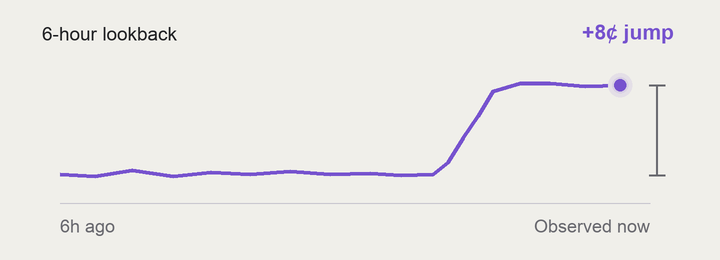
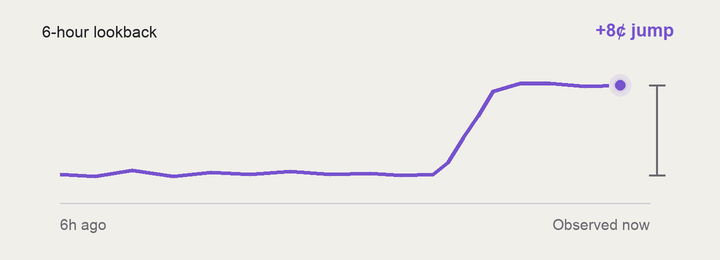
builder: smaller strategy illustrations that always play
Type and marks inside the five example animations are about a fifth smaller, the figure renders narrower on the page, and the pause button is gone: the animation plays whenever the card is on screen. The reduced-motion preference still shows the still poster.

diff --git a/site/terms.html b/site/terms.html
@@ -1,1 +1,1 @@
-<!doctype html><html lang="en"><head><meta charset="utf-8"><meta name="viewport" content="width=device-width,initial-scale=1"><title>Terms of use · OddsRail</title><meta name="robots" content="noindex"><link rel="icon" href="/favicon.svg"><link rel="stylesheet" href="/product.css?v=20260912-3"><link rel="stylesheet" href="/builder.css"><script src="/wallet.js?v=20260916-2" defer></script><script src="/shell.js?v=20260916-2" defer></script></head><body class="product" data-page="terms"><div data-shell></div><main id="main-content" class="app-main prose"><p class="eyebrow">USING ODDSRAIL</p><h1>Terms of use</h1><div class="notice">Hosted live trading and prize competitions are not currently available.</div><h2>What the service provides</h2><p>OddsRail offers market information and strategy configuration. A draft is not an active trading agent. The website has no paper-trading controls. Self-hosted live execution is a separate installation that the operator configures and controls.</p><h2>Trading and simulations</h2><p>Prediction-market trading can lose your entire trading allocation. Prices and market data may be delayed or unavailable. Simulated results omit fees, queue priority and market impact, and do not establish likely live performance. Entry limits and sampled stop rules do not guarantee a maximum loss or exit price.</p><h2>Permissions and accounts</h2><p>Connecting a wallet and signing the OddsRail sign-in message verifies control of that signing address. This creates an expiring sign-in session and does not grant trading permission. Do not enter an owner wallet private key or a consumer AI account password into the website. A future hosted trading service will require a separate description of permissions, signing-key handling, revocation and availability before activation.</p><h2>Responsible use</h2><p>Follow the applicable venue rules and <a href="https://docs.polymarket.com/api-reference/geoblock" target="_blank" rel="noopener noreferrer">eligibility restrictions</a>. Being able to view OddsRail does not establish eligibility to trade. Do not use the service for deceptive activity, artificial trading volume, unauthorized account access or attempts to bypass service limits. OddsRail's builder status does not mean that Polymarket guarantees its strategies, security, or results.</p><h2>AI and competitions</h2><p>Running the built-in strategy rules does not require ongoing model calls. Hosted AI research is not enabled in this build. Any future included allowance must show when usage becomes unavailable. Competition dates, eligibility, scoring, prizes and sponsors will be published separately before entry opens.</p><h2>Privacy and support</h2><p>See the <a href="/privacy">privacy information</a> for the existing hosted service. New strategy drafts are saved in this browser. Use the <a href="https://github.com/hmesutozsoy/oddsrail/issues">support tracker</a> for product issues. Do not put credentials or private account details in public issues.</p></main></body></html>
+<!doctype html><html lang="en"><head><meta charset="utf-8"><meta name="viewport" content="width=device-width,initial-scale=1"><title>Terms of use · OddsRail</title><meta name="robots" content="noindex"><link rel="icon" href="/favicon.svg"><link rel="stylesheet" href="/product.css?v=20260912-3"><link rel="stylesheet" href="/builder.css"><script src="/wallet.js?v=20260916-3" defer></script><script src="/shell.js?v=20260916-3" defer></script></head><body class="product" data-page="terms"><div data-shell></div><main id="main-content" class="app-main prose"><p class="eyebrow">USING ODDSRAIL</p><h1>Terms of use</h1><div class="notice">Hosted live trading and prize competitions are not currently available.</div><h2>What the service provides</h2><p>OddsRail offers market information and strategy configuration. A draft is not an active trading agent. The website has no paper-trading controls. Self-hosted live execution is a separate installation that the operator configures and controls.</p><h2>Trading and simulations</h2><p>Prediction-market trading can lose your entire trading allocation. Prices and market data may be delayed or unavailable. Simulated results omit fees, queue priority and market impact, and do not establish likely live performance. Entry limits and sampled stop rules do not guarantee a maximum loss or exit price.</p><h2>Permissions and accounts</h2><p>Connecting a wallet and signing the OddsRail sign-in message verifies control of that signing address. This creates an expiring sign-in session and does not grant trading permission. Do not enter an owner wallet private key or a consumer AI account password into the website. A future hosted trading service will require a separate description of permissions, signing-key handling, revocation and availability before activation.</p><h2>Responsible use</h2><p>Follow the applicable venue rules and <a href="https://docs.polymarket.com/api-reference/geoblock" target="_blank" rel="noopener noreferrer">eligibility restrictions</a>. Being able to view OddsRail does not establish eligibility to trade. Do not use the service for deceptive activity, artificial trading volume, unauthorized account access or attempts to bypass service limits. OddsRail's builder status does not mean that Polymarket guarantees its strategies, security, or results.</p><h2>AI and competitions</h2><p>Running the built-in strategy rules does not require ongoing model calls. Hosted AI research is not enabled in this build. Any future included allowance must show when usage becomes unavailable. Competition dates, eligibility, scoring, prizes and sponsors will be published separately before entry opens.</p><h2>Privacy and support</h2><p>See the <a href="/privacy">privacy information</a> for the existing hosted service. New strategy drafts are saved in this browser. Use the <a href="https://github.com/hmesutozsoy/oddsrail/issues">support tracker</a> for product issues. Do not put credentials or private account details in public issues.</p></main></body></html>

diff --git a/site/strategy-visuals.js b/site/strategy-visuals.js
@@ -12,7 +12,7 @@
   let scheduled = false;
   const element = (tag, cls, text) => { const node = document.createElement(tag); if (cls) node.className = cls; if (text) node.textContent = text; return node; };
   const theme = () => document.documentElement.dataset.theme === 'light' ? 'light' : 'dark';
-  function path(record, extension) { return '/assets/strategy-gifs/' + record.id + '-' + theme() + '.' + extension + '?v=20260913-4'; }
+  function path(record, extension) { return '/assets/strategy-gifs/' + record.id + '-' + theme() + '.' + extension + '?v=20260916-3'; }
   function wantsMotion(record) { return !record.paused && (!preference.matches || record.motionOverride); }
   function paint(record) {
     const rect = record.figure.getBoundingClientRect();
@@ -23,8 +23,6 @@
       const source = path(record, play ? 'gif' : 'png');
       if (record.image.getAttribute('src') !== source && !record.posterFailed) record.image.setAttribute('src', source);
     }
-    record.button.textContent = wantsMotion(record) ? 'Pause' : 'Play';
-    record.button.setAttribute('aria-label', (wantsMotion(record) ? 'Pause ' : 'Play ') + examples[record.id][0] + ' example animation');
   }
   function update() {
     scheduled = false;
@@ -34,24 +32,16 @@
   function attach(container, id) {
     if (!examples[id]) return;
     const figure = element('figure','strategy-visual');
-    const toolbar = element('div','strategy-visual-toolbar');
-    const button = element('button','strategy-animation-control','Pause'); button.type = 'button'; toolbar.append(button);
     const media = element('div','strategy-visual-media');
     const image = element('img'); image.width = 720; image.height = 260; image.alt = examples[id][1]; image.decoding = 'async'; image.hidden = true;
     media.append(image);
     const caption = element('figcaption','','Illustrative example, independent of your settings below.');
-    figure.append(toolbar,media,caption);container.append(figure);
-    const record = {id,figure,image,button,caption,paused:false,motionOverride:false,failed:false,posterFailed:false}; records.push(record);
+    figure.append(media,caption);container.append(figure);
+    const record = {id,figure,image,caption,paused:false,motionOverride:false,failed:false,posterFailed:false}; records.push(record);
     image.addEventListener('load', () => { image.hidden = false; });
     image.addEventListener('error', () => {
       if (record.failed) { record.posterFailed = true; image.hidden = true; caption.textContent = 'This example could not be loaded.'; }
       else { record.failed = true; record.paused = true; image.src = path(record,'png'); }
-      button.disabled = true;
-    });
-    button.addEventListener('click', () => {
-      if (wantsMotion(record)) { record.paused = true; record.motionOverride = false; }
-      else { record.paused = false; record.motionOverride = preference.matches; }
-      paint(record);
     });
     observer?.observe(figure); schedule();
   }

diff --git a/site/agents.html b/site/agents.html
@@ -1,1 +1,1 @@
-<!doctype html><html lang="en"><head><meta charset="utf-8"><meta name="viewport" content="width=device-width,initial-scale=1"><title>My agents · OddsRail</title><meta name="description" content="Your OddsRail strategy drafts and agent configurations."><link rel="canonical" href="https://oddsrail.app/agents"><link rel="icon" href="/favicon.svg"><link rel="stylesheet" href="/product.css?v=20260912-3"><link rel="stylesheet" href="/builder.css?v=20260912-2"><script src="/wallet.js?v=20260916-2" defer></script><script src="/shell.js?v=20260916-2" defer></script><script src="/agents.js?v=20260912-2" defer></script></head><body class="product" data-page="agents"><div data-shell></div><main id="main-content" class="app-main"><div class="page-heading"><div><p class="eyebrow">YOUR CONTROL ROOM</p><h1>My agents</h1><p class="muted">Shape an idea, keep a draft, and pick up where you left off.</p></div><a class="pill" href="/build">Create agent <span aria-hidden="true">↗</span></a></div><div id="drafts" class="draft-grid"></div><section class="panel empty-agents" id="no-drafts" hidden><div class="agent-orbit" aria-hidden="true"><span>↗</span></div><h2>Your next idea starts here.</h2><p class="muted">Create a strategy and set its boundaries. Drafts stay in this browser.</p><a class="pill" href="/build">Create your first agent</a></section><p class="muted small">Drafts are not active agents. Hosted live authorization is not available yet.</p></main></body></html>
+<!doctype html><html lang="en"><head><meta charset="utf-8"><meta name="viewport" content="width=device-width,initial-scale=1"><title>My agents · OddsRail</title><meta name="description" content="Your OddsRail strategy drafts and agent configurations."><link rel="canonical" href="https://oddsrail.app/agents"><link rel="icon" href="/favicon.svg"><link rel="stylesheet" href="/product.css?v=20260912-3"><link rel="stylesheet" href="/builder.css?v=20260912-2"><script src="/wallet.js?v=20260916-3" defer></script><script src="/shell.js?v=20260916-3" defer></script><script src="/agents.js?v=20260912-2" defer></script></head><body class="product" data-page="agents"><div data-shell></div><main id="main-content" class="app-main"><div class="page-heading"><div><p class="eyebrow">YOUR CONTROL ROOM</p><h1>My agents</h1><p class="muted">Shape an idea, keep a draft, and pick up where you left off.</p></div><a class="pill" href="/build">Create agent <span aria-hidden="true">↗</span></a></div><div id="drafts" class="draft-grid"></div><section class="panel empty-agents" id="no-drafts" hidden><div class="agent-orbit" aria-hidden="true"><span>↗</span></div><h2>Your next idea starts here.</h2><p class="muted">Create a strategy and set its boundaries. Drafts stay in this browser.</p><a class="pill" href="/build">Create your first agent</a></section><p class="muted small">Drafts are not active agents. Hosted live authorization is not available yet.</p></main></body></html>

diff --git a/site/build.html b/site/build.html
@@ -1,5 +1,5 @@
 <!doctype html>
-<html lang="en"><head><meta charset="utf-8"><meta name="viewport" content="width=device-width,initial-scale=1"><title>Create an agent · OddsRail</title><meta name="description" content="Choose a strategy, select Polymarket markets, and review your agent's trading limits."><link rel="canonical" href="https://oddsrail.app/build"><link rel="icon" href="/favicon.svg"><link rel="stylesheet" href="/product.css?v=20260912-3"><link rel="stylesheet" href="/builder.css?v=20260916-2"><script src="/wallet.js?v=20260916-2" defer></script><script src="/shell.js?v=20260916-2" defer></script><script src="/strategy-visuals.js?v=20260913-4" defer></script><script src="/trading-connection.js?v=20260916-2" defer></script><script src="/activation.js?v=20260913-6" defer></script><script src="/build.js?v=20260916-2" defer></script></head>
+<html lang="en"><head><meta charset="utf-8"><meta name="viewport" content="width=device-width,initial-scale=1"><title>Create an agent · OddsRail</title><meta name="description" content="Choose a strategy, select Polymarket markets, and review your agent's trading limits."><link rel="canonical" href="https://oddsrail.app/build"><link rel="icon" href="/favicon.svg"><link rel="stylesheet" href="/product.css?v=20260912-3"><link rel="stylesheet" href="/builder.css?v=20260916-3"><script src="/wallet.js?v=20260916-3" defer></script><script src="/shell.js?v=20260916-3" defer></script><script src="/strategy-visuals.js?v=20260916-3" defer></script><script src="/trading-connection.js?v=20260916-3" defer></script><script src="/activation.js?v=20260913-6" defer></script><script src="/build.js?v=20260916-3" defer></script></head>
 <body class="product" data-page="build"><div data-shell></div><main id="main-content" class="app-main builder-main">
 <div class="page-heading"><div><p class="eyebrow">YOUR EDGE. YOUR RULES.</p><h1>Make the strategy yours.</h1><p class="muted">Choose how it trades. Set its limits. Review before authorizing.</p></div></div>
 

diff --git a/site/arena.html b/site/arena.html
@@ -6,7 +6,7 @@
 <meta name="description" content="An agent trading competition is coming to OddsRail. Build your agent and explore the proposed format.">
 <link rel="canonical" href="https://oddsrail.app/arena"><link rel="icon" href="/favicon.svg" type="image/svg+xml">
 <meta property="og:type" content="website"><meta property="og:site_name" content="OddsRail"><meta property="og:title" content="Competition · OddsRail"><meta property="og:description" content="Build an agent. Get ready to compete. Coming soon to OddsRail."><meta property="og:url" content="https://oddsrail.app/arena">
-<link rel="stylesheet" href="/product.css?v=20260912-3"><link rel="stylesheet" href="/competition.css?v=20260912"><script src="/wallet.js?v=20260916-2" defer></script><script src="/shell.js?v=20260916-2" defer></script>
+<link rel="stylesheet" href="/product.css?v=20260912-3"><link rel="stylesheet" href="/competition.css?v=20260912"><script src="/wallet.js?v=20260916-3" defer></script><script src="/shell.js?v=20260916-3" defer></script>
 </head>
 <body class="product" data-page="arena">
 <div data-shell></div>

diff --git a/site/index.html b/site/index.html
@@ -5,7 +5,7 @@
 <title>Markets · OddsRail</title><meta name="description" content="Explore Polymarket markets and create your own trading agent with OddsRail.">
 <link rel="canonical" href="https://oddsrail.app/"><link rel="icon" href="/favicon.svg" type="image/svg+xml">
 <meta property="og:title" content="Markets · OddsRail"><meta property="og:description" content="Find a market. Create your agent."><meta property="og:url" content="https://oddsrail.app/">
-<link rel="stylesheet" href="/product.css?v=20260912-3"><script src="/wallet.js?v=20260916-2" defer></script><script src="/shell.js?v=20260916-2" defer></script><script src="/markets.js?v=20260912" defer></script>
+<link rel="stylesheet" href="/product.css?v=20260912-3"><script src="/wallet.js?v=20260916-3" defer></script><script src="/shell.js?v=20260916-3" defer></script><script src="/markets.js?v=20260912" defer></script>
 </head>
 <body class="product" data-page="markets">
 <div data-shell></div>

diff --git a/site/builder.css b/site/builder.css
@@ -24,7 +24,7 @@
 .strategy-animation-control:hover{border-color:var(--accent)}
 .strategy-visual{margin:0 0 22px;border:1px solid var(--line);border-radius:14px;background:var(--bg);overflow:hidden}
 .strategy-visual-toolbar{display:flex;align-items:center;justify-content:flex-end;gap:12px;padding:11px 14px 0}
-.strategy-visual-media{aspect-ratio:720/260;width:100%;display:grid;place-items:center}
+.strategy-visual-media{aspect-ratio:720/260;width:100%;max-width:620px;margin:0 auto;padding-top:10px;display:grid;place-items:center}
 .strategy-visual-media img{display:block;width:100%;height:auto;aspect-ratio:720/260}
 .strategy-visual figcaption{font-size:11px;color:var(--muted);line-height:1.5;padding:3px 14px 13px}
 @media(max-width:480px){.strategy-visual-toolbar{padding:10px 10px 0}.strategy-visual figcaption{padding:4px 10px 12px;font-size:10px}}

diff --git a/site/portfolio.html b/site/portfolio.html
@@ -9,10 +9,10 @@
 <link rel="canonical" href="https://oddsrail.app/portfolio">
 <link rel="icon" href="/favicon.svg">
 <link rel="stylesheet" href="/product.css?v=20260912-3">
-<link rel="stylesheet" href="/portfolio.css?v=20260916-2">
-<script src="/wallet.js?v=20260916-2" defer></script>
-<script src="/shell.js?v=20260916-2" defer></script>
-<script src="/portfolio.js?v=20260916-2" defer></script>
+<link rel="stylesheet" href="/portfolio.css?v=20260916-3">
+<script src="/wallet.js?v=20260916-3" defer></script>
+<script src="/shell.js?v=20260916-3" defer></script>
+<script src="/portfolio.js?v=20260916-3" defer></script>
 </head>
 <body class="product" data-page="portfolio">
 <div data-shell></div>

diff --git a/site/advanced.html b/site/advanced.html
@@ -10,7 +10,7 @@
 <link rel="stylesheet" href="/product.css?v=20260912-3">
 <link rel="stylesheet" href="/builder.css?v=20260912-2">
 <link rel="stylesheet" href="/external.css?v=20260912-2">
-<script src="/wallet.js?v=20260916-2" defer></script><script src="/shell.js?v=20260916-2" defer></script>
+<script src="/wallet.js?v=20260916-3" defer></script><script src="/shell.js?v=20260916-3" defer></script>
 <script src="/advanced.js?v=20260912-2" defer></script>
 </head>
 <body class="product" data-page="build">

diff --git a/tools/generate_strategy_gifs.py b/tools/generate_strategy_gifs.py
@@ -17,7 +17,7 @@ from pathlib import Path
 from PIL import Image, ImageDraw, ImageFont
 
 WIDTH, HEIGHT, SCALE = 720, 260, 2
-TEXT_SCALE, MIN_TEXT_SIZE = 0.64, 18
+TEXT_SCALE, MIN_TEXT_SIZE = 0.54, 15
 FRAMES = 60
 DURATIONS = [70, 70, 60] * 20  # GIF timing uses 10 ms units: exactly four seconds.
 ROOT = Path(__file__).resolve().parents[1]
@@ -98,7 +98,7 @@ class Canvas:
         self.draw.rounded_rectangle(tuple(round(v * SCALE) for v in box),
                                     radius=round(radius * SCALE), fill=self.color(color, strength))
 
-    def dot(self, xy, phase=0, strength=1, radius=6):
+    def dot(self, xy, phase=0, strength=1, radius=5):
         # Small local halo only. Background and labels never flash or move.
         self.circle(xy, radius + 6 + math.sin(phase * math.tau) * 1.5,
                     strength=0.10 * strength)
@@ -142,12 +142,12 @@ def quote(canvas, phase, poster):
         canvas.line([(198, y), (647, y)], width=2)
         canvas.line([(570, y - 11), (570, y + 11)], "muted", 2)
         canvas.text((570, y - 50), "50¢ mid", 28, "muted", anchor="ma")
-        canvas.circle((312, y), 7, "accent", 0.65, outline=True)
+        canvas.circle((312, y), 6, "accent", 0.65, outline=True)
         canvas.text((312, y - 50), "48¢ bid", 30, "accent", anchor="ma", bold=True)
         canvas.text((444, y + 16), "2¢ below mid", 26, "muted", anchor="ma")
         moving = (570 - 258 * amount, y)
         canvas.line([moving, (570, y)], "accent", 3, strength * 0.8)
-        canvas.dot(moving, phase, strength, radius=6)
+        canvas.dot(moving, phase, strength, radius=5)
 
 
 def fade(canvas, phase, poster):
